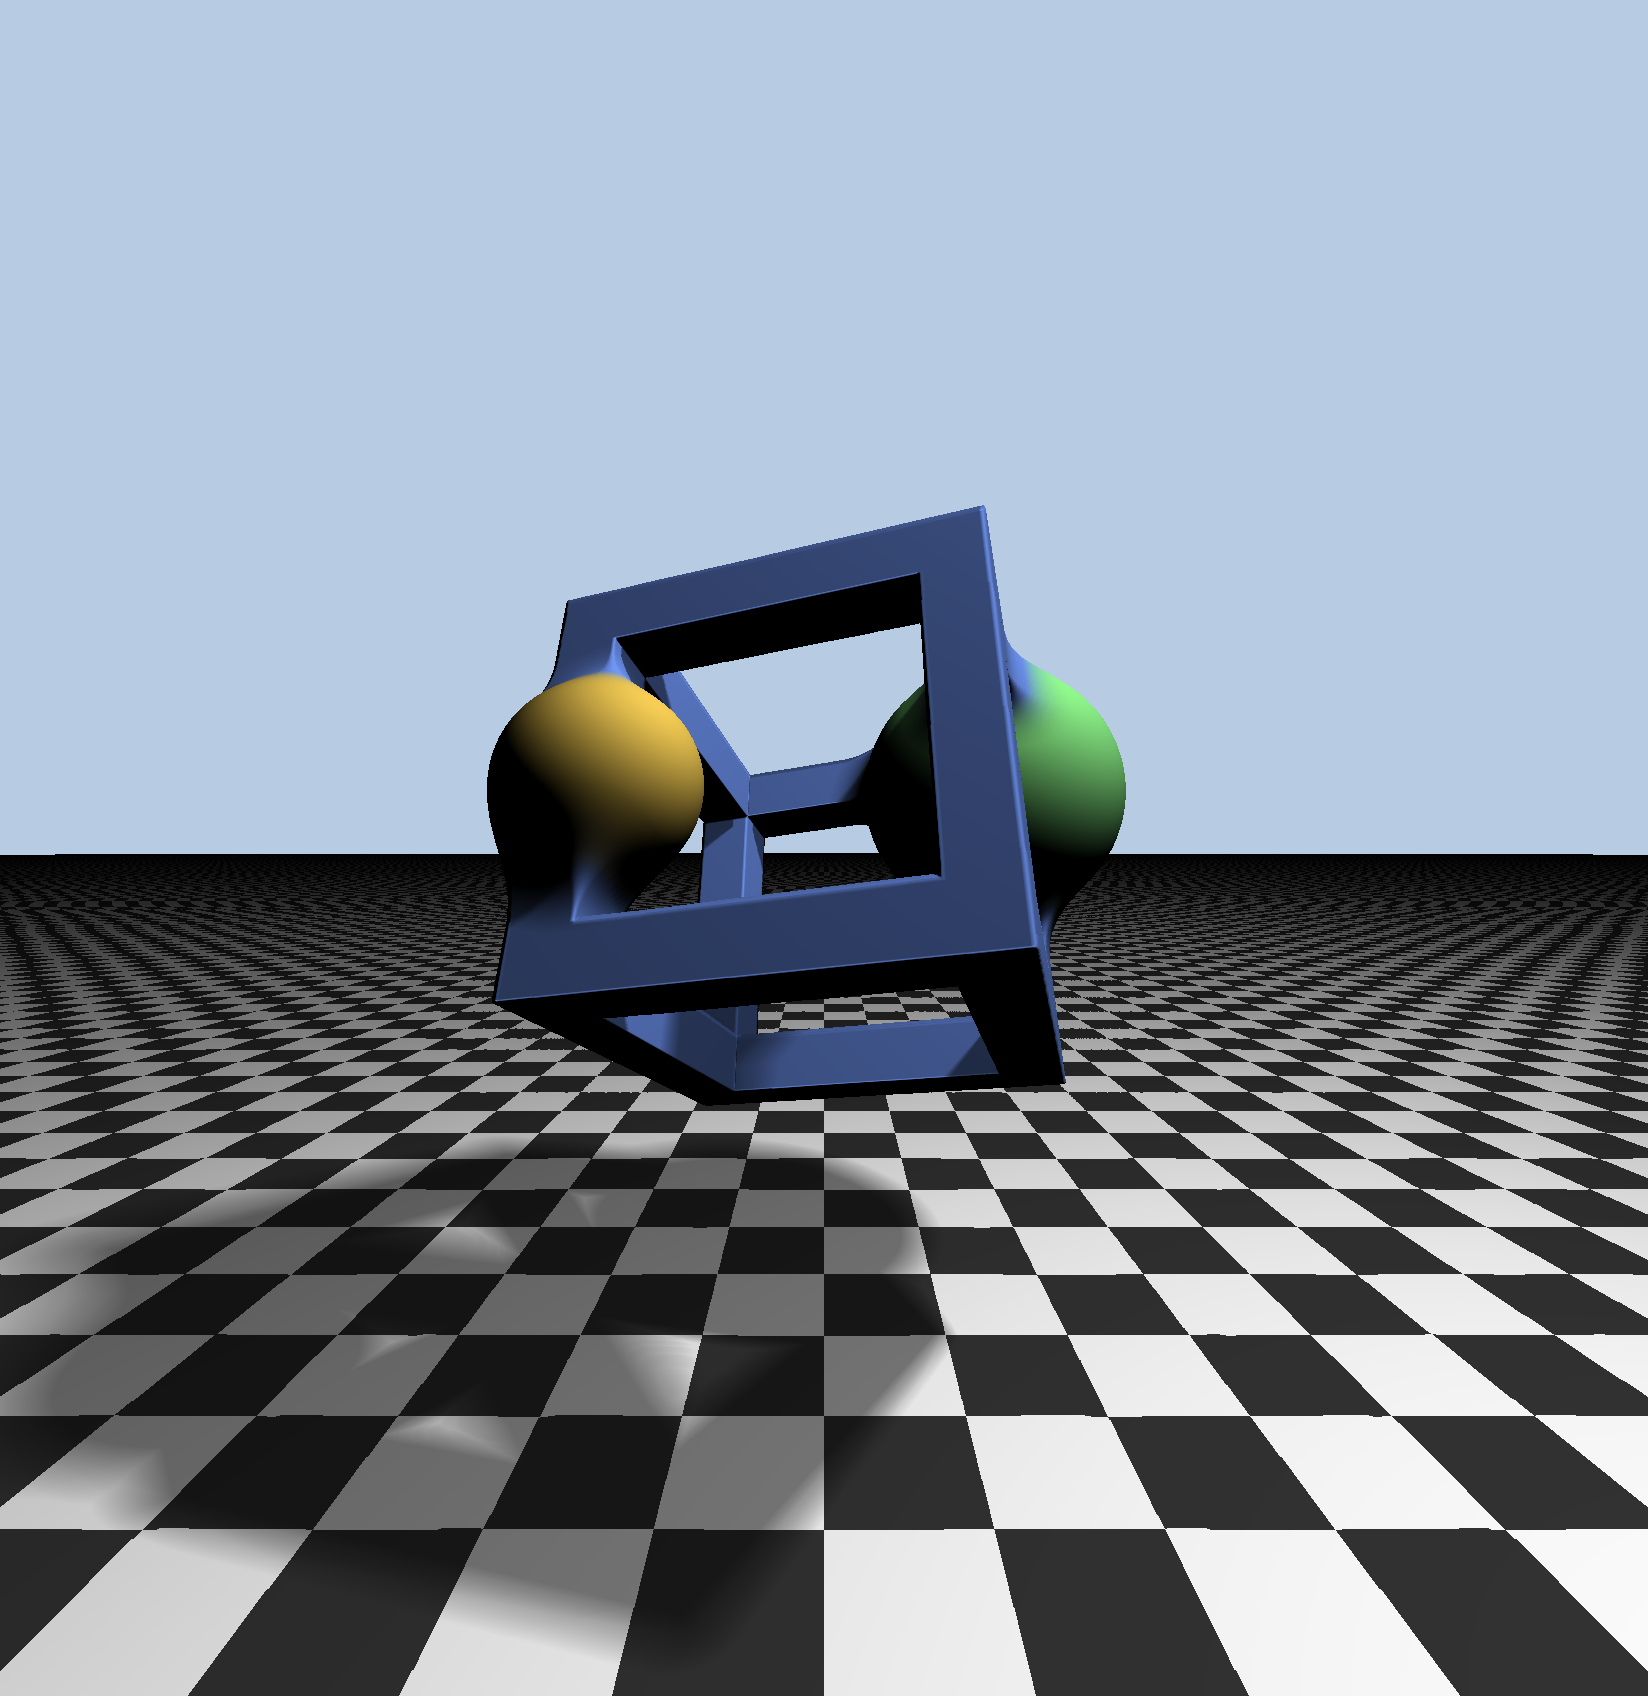
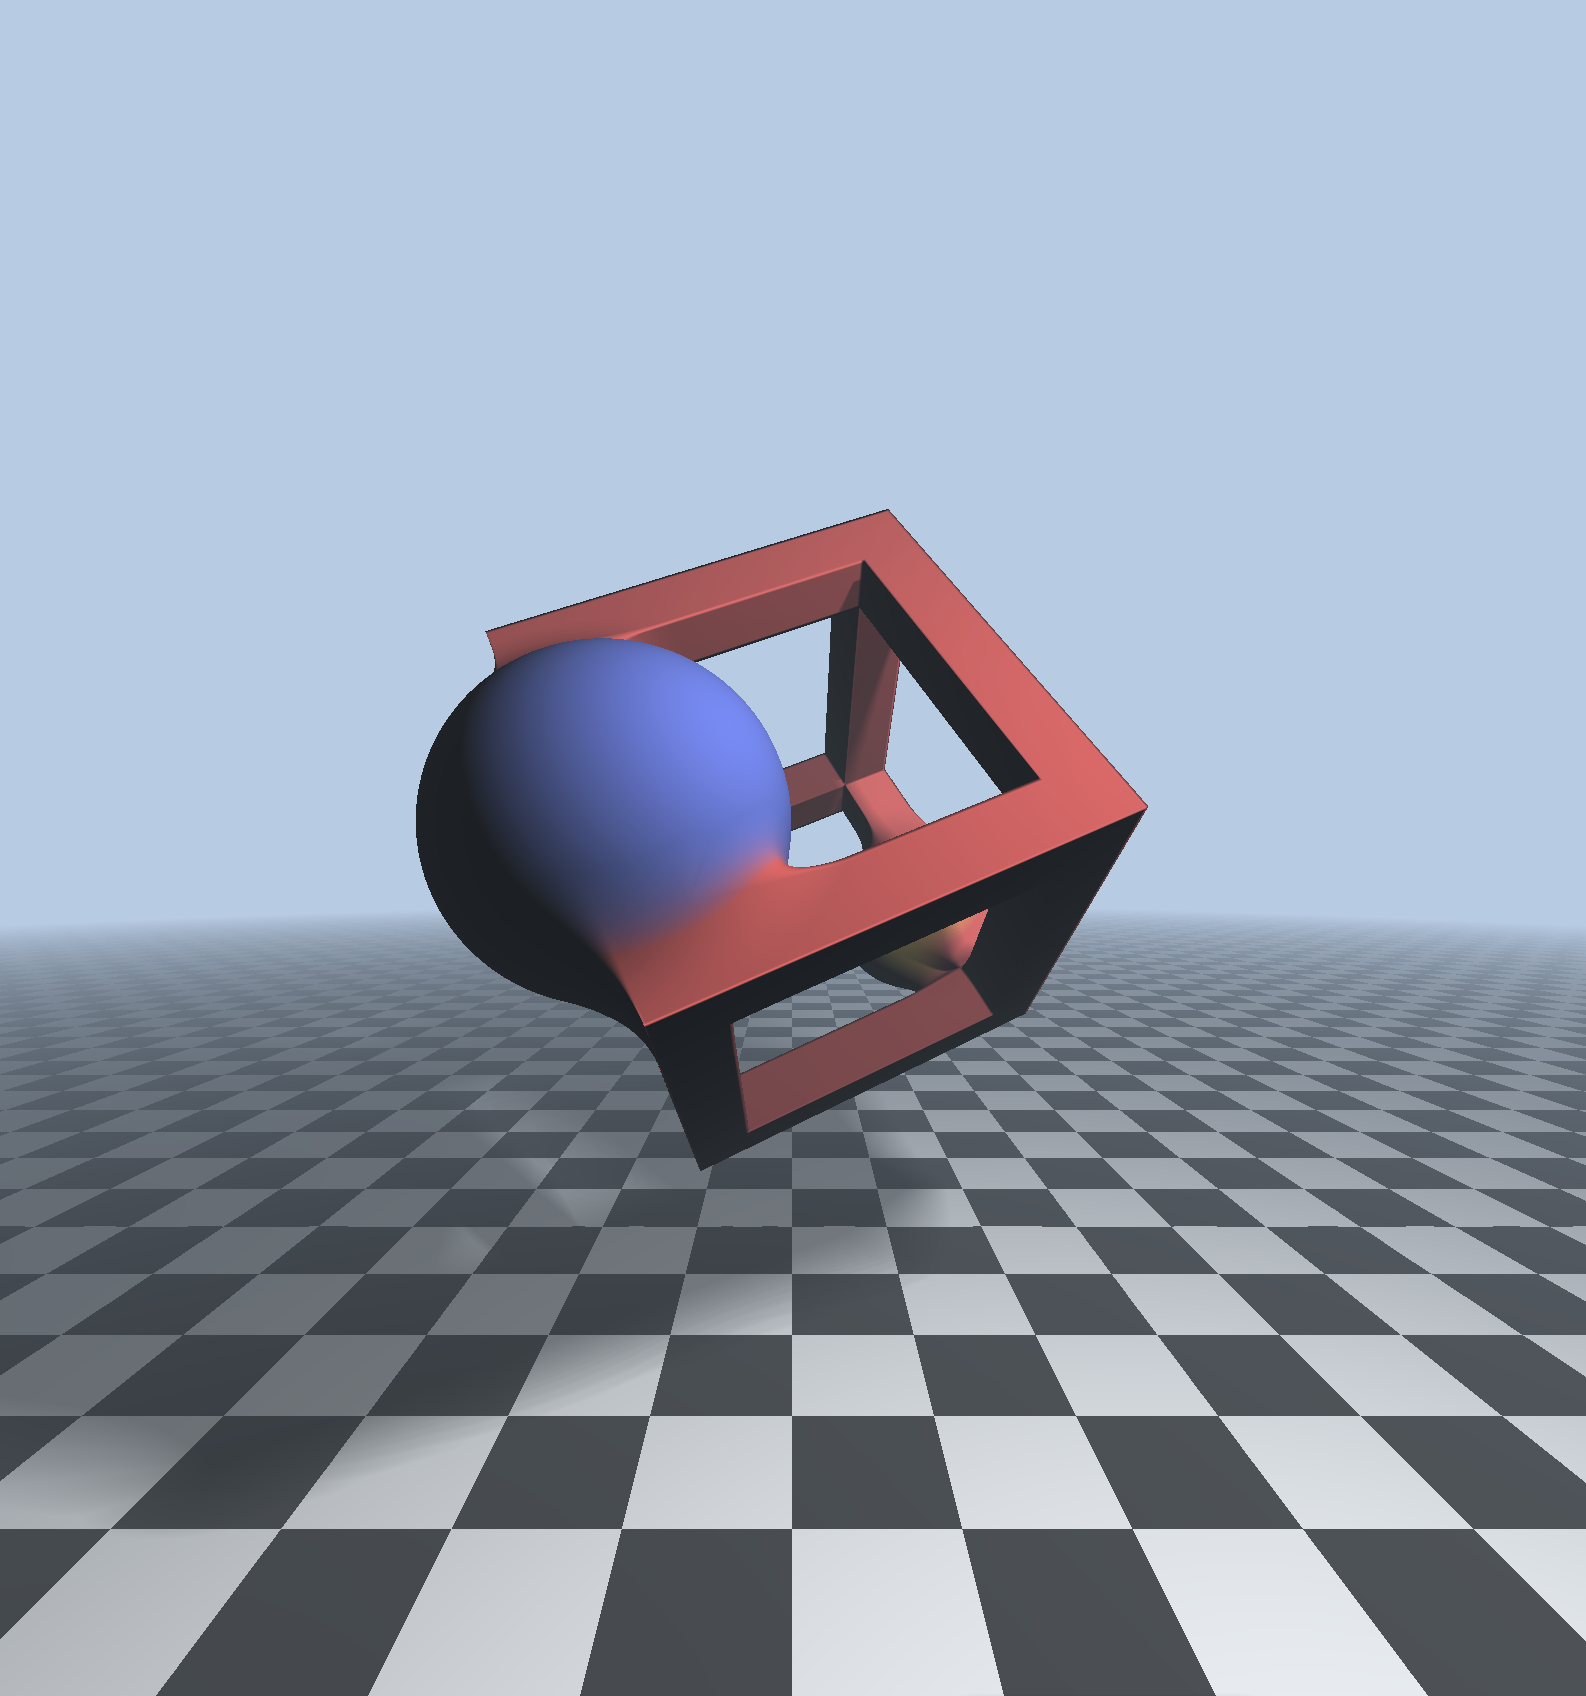
Update checker-board pattern

diff --git a/apps/typegpu-docs/src/content/examples/rendering/ray-marching/index.ts b/apps/typegpu-docs/src/content/examples/rendering/ray-marching/index.ts
@@ -31,8 +31,8 @@ const Shape = d.struct({
 });
 
 const checkerBoard = tgpu.fn([d.vec2f], d.f32)((uv) => {
-  const suv = std.floor(std.mul(20, uv));
-  return suv.x + suv.y - 2 * std.floor((suv.x + suv.y) * 0.5);
+  const fuv = std.floor(uv);
+  return std.abs(fuv.x + fuv.y) % 2;
 });
 
 const smoothShapeUnion = tgpu.fn([Shape, Shape, d.f32], Shape)((a, b, k) => {
@@ -103,7 +103,7 @@ const getSceneDist = tgpu.fn([d.vec3f], Shape)((p) => {
     color: std.mix(
       d.vec3f(1),
       d.vec3f(0.2),
-      checkerBoard(std.mul(p.xz, 0.1)),
+      checkerBoard(std.mul(p.xz, 2)),
     ),
   });
 
